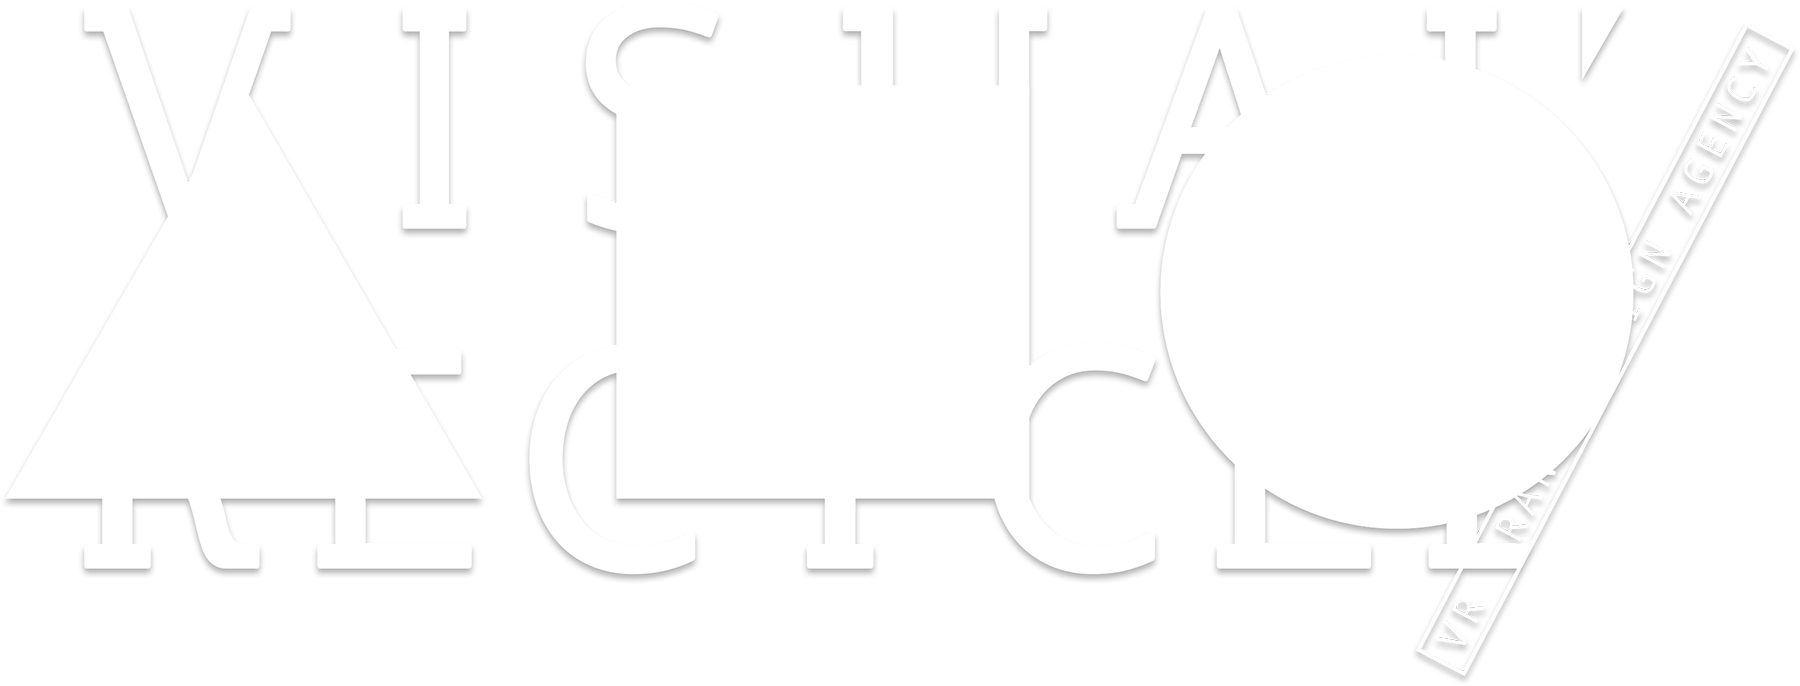
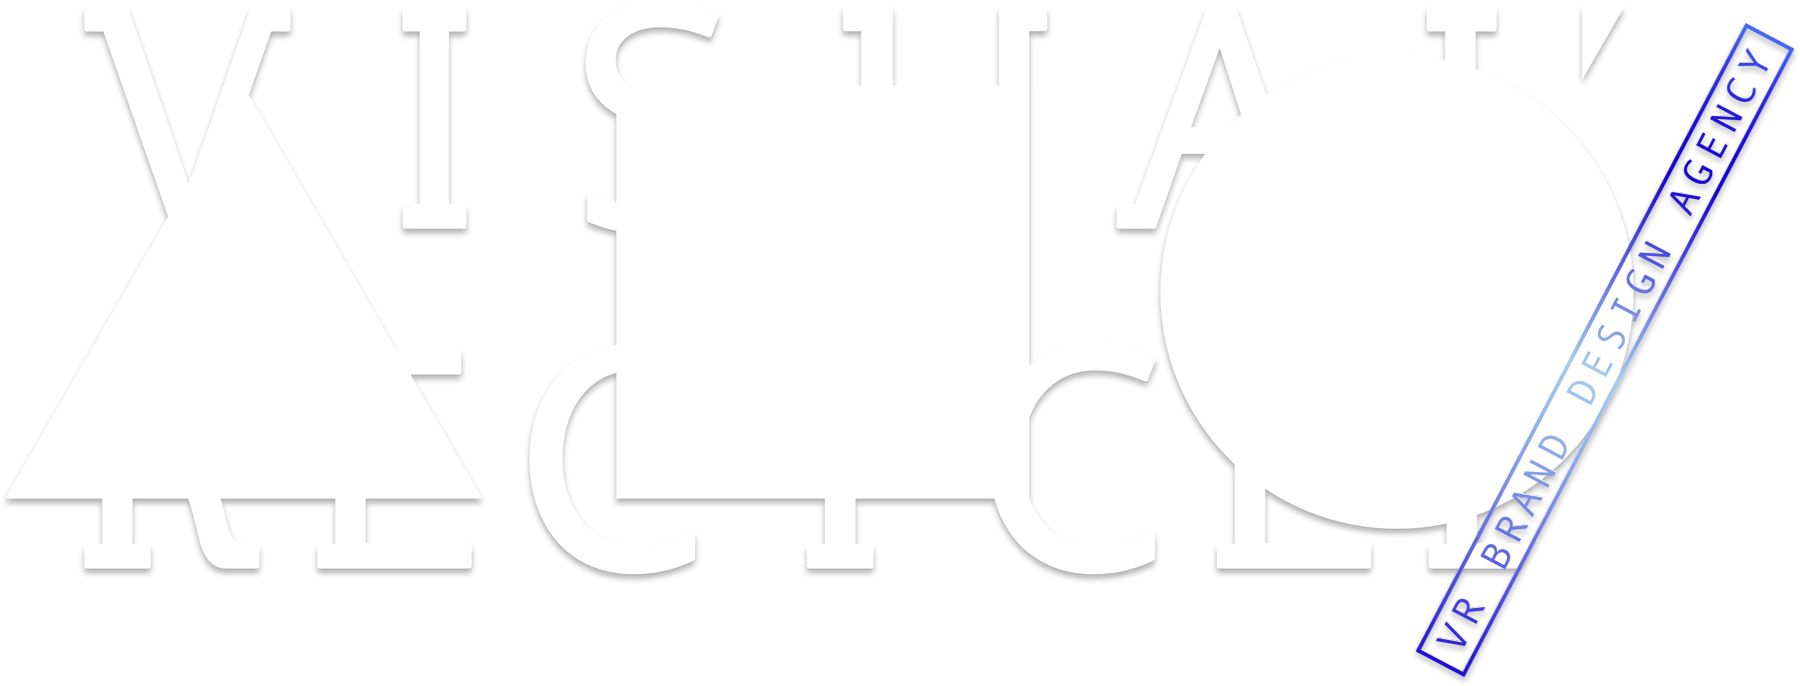
1

diff --git a/public/css/py_global.css b/public/css/py_global.css
@@ -250,7 +250,7 @@ a:hover {
 
 .big_menu li {
     display: inline-block;
-    margin-left: 20px;
+    margin-left: 25px;
     cursor: pointer;
 }
 
@@ -369,8 +369,10 @@ a:hover {
 .bgwtitle .t1 {
     display: inline-block;
     padding: 0 0 10px 0;
-    border-bottom: 2px solid #eee;
-    font-size: 22px;
+    font-size: 18px;
+    color:#0011e3;
+    font-family: Arial;
+    font-style: italic;
 }
 
 .bgwtitle .t2 {
